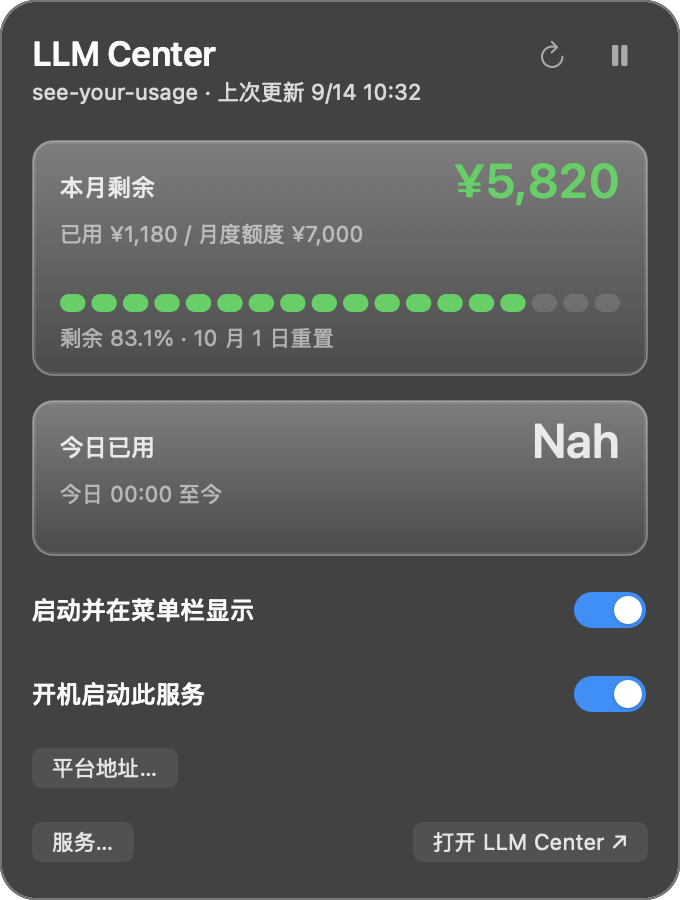
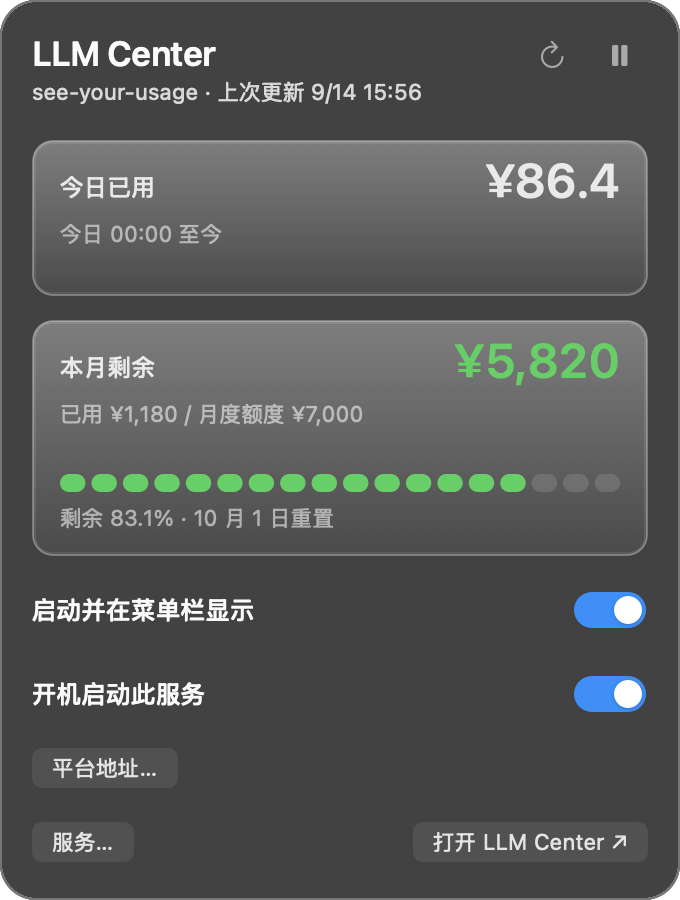
1.0.6

diff --git a/docs/design/product-previews.html b/docs/design/product-previews.html
@@ -1,0 +1,42 @@
+<!doctype html>
+<html lang="zh-CN">
+<meta charset="utf-8">
+<title>see-your-usage product illustrations</title>
+<style>
+*{box-sizing:border-box}body{margin:0;background:#fff;color:#29292c;font-family:-apple-system,BlinkMacSystemFont,"Helvetica Neue",sans-serif;letter-spacing:0}
+.scene{width:760px;height:690px;padding:16px 20px;position:relative;overflow:hidden;background:#fff}
+#codex{height:570px}
+.menubar{height:38px;background:#e9e8ed;border-radius:11px 11px 0 0;display:flex;align-items:center;padding:0 16px;gap:20px;font-size:14px}
+.finder{margin-right:auto;font-size:16px;font-weight:500}.clock{white-space:nowrap}.menubar svg{width:20px;height:20px;stroke-width:1.8}
+.status{height:32px;width:88px;border-radius:6px;background:#d7d6de;display:flex;flex-direction:column;justify-content:center;padding:2px 10px;text-align:right;font-size:13px;line-height:14px;font-weight:600;font-variant-numeric:tabular-nums}
+.green{color:#209c43}.yellow{color:#bd9000}.status.codex{width:126px;flex-direction:row;gap:7px;align-items:center;font-size:10px;padding:0 6px;white-space:nowrap}.mini{display:flex;gap:2px;flex:none}.mini i{height:6px;width:4px;background:#aaa9af;border-radius:3px}.mini i.on{background:#e7b900}
+.popover{position:relative;width:444px;margin:18px 12px 0 auto;padding:22px;background:#eae9ee;border:1px solid #d2d2da;border-radius:18px;box-shadow:0 13px 32px #24212e12}
+.popover::before{position:absolute;content:"";width:17px;height:17px;top:-10px;left:50%;background:#eae9ee;transform:rotate(45deg);border-top:1px solid #d2d2da;border-left:1px solid #d2d2da}
+.header{display:flex;align-items:center;justify-content:space-between}.title{font-size:25px;font-weight:600;line-height:32px}.brand{font-size:14px;color:#77777f;margin-top:6px}.tools{display:flex;gap:17px;color:#7b7b84}.tools svg{width:21px;height:21px;stroke-width:1.7}.updated{font-size:13px;color:#797981;margin:27px 0 18px}
+.metric{background:#f7f7f9;border-radius:13px;padding:18px;margin-top:13px}.row{display:flex;justify-content:space-between;align-items:baseline;gap:10px}.label{font-size:15px;font-weight:500}.amount{font-size:31px;font-weight:600;line-height:36px;font-variant-numeric:tabular-nums;white-space:nowrap}.amount small{font-size:21px;font-weight:500;margin-right:2px}.caption{font-size:13px;color:#787880;margin-top:17px;line-height:19px;white-space:nowrap}.cells{height:11px;display:flex;gap:4px;margin:23px 0 17px}.cells i{flex:1;border-radius:4px;background:#dbdbe1}.cells i.on{background:#209c43}.cells.gold i.on{background:#e7b900}.reset{font-size:12px;color:#787880;display:flex;justify-content:space-between;gap:5px}.settings{border-top:1px solid #d2d2da;margin-top:22px;padding-top:19px;display:flex;align-items:center;justify-content:space-between;font-size:14px}.toggle{width:37px;height:22px;background:#087ff5;border-radius:20px;padding:3px}.toggle::after{content:"";display:block;float:right;background:#fff;width:16px;height:16px;border-radius:50%}.footer{display:flex;justify-content:space-between;margin-top:24px;font-size:13px;color:#797981}.link{color:#0980f8;display:flex;align-items:center;gap:4px}.link svg{width:14px;height:14px}.codex-panel .metric{padding-bottom:21px}.codex-panel .caption{margin-top:12px}.codex-panel .cells{margin-top:25px}.codex-panel .settings{margin-top:26px}.codex-panel{margin-top:18px}.codex-panel .popover::before{left:40%}
+</style>
+<div class="scene" id="llm-center">
+ <div class="menubar"><span class="finder">Finder</span><div class="status"><span class="green">¥5,820</span><span>¥86.4</span></div><i data-lucide="wifi"></i><i data-lucide="battery-full"></i><span class="clock">周一 10:42</span></div>
+ <div class="popover">
+  <div class="header"><div><div class="title">LLM Center</div><div class="brand">see-your-usage</div></div><div class="tools"><i data-lucide="rotate-cw"></i><i data-lucide="pause"></i></div></div>
+  <div class="updated">上次更新 10:42</div>
+  <div class="metric"><div class="row"><span class="label">今日已用</span><span class="amount"><small>¥</small>86.4</span></div><div class="caption">今日 00:00 至今</div></div>
+  <div class="metric"><div class="row"><span class="label">本月剩余</span><span class="amount green"><small>¥</small>5,820</span></div><div class="caption">已用 ¥1,180 / 月度额度 ¥7,000</div><div class="cells" data-total="18" data-filled="15"></div><div class="reset"><span>剩余 83.1%</span><span>10 月 1 日重置</span></div></div>
+  <div class="settings"><span>开机启动</span><span class="toggle"></span></div>
+  <div class="footer"><span>收起</span><span class="link">打开 LLM Center <i data-lucide="arrow-up-right"></i></span></div>
+ </div>
+</div>
+<div class="scene" id="codex">
+ <div class="menubar"><span class="finder">Finder</span><div class="status codex"><span class="mini" data-total="12" data-filled="5"></span><span>Sep 19</span></div><i data-lucide="wifi"></i><i data-lucide="battery-full"></i><span class="clock">周一 10:42</span></div>
+ <div class="popover codex-panel">
+  <div class="header"><div><div class="title">Codex</div><div class="brand">see-your-usage</div></div><div class="tools"><i data-lucide="rotate-cw"></i><i data-lucide="pause"></i></div></div>
+  <div class="updated">上次更新 10:42</div>
+  <div class="metric"><div class="row"><span class="label">本周剩余</span><span class="amount yellow">42<small>%</small></span></div><div class="caption">7 天用量窗口 · 已用 58%</div><div class="cells gold" data-total="18" data-filled="8"></div><div class="reset"><span>Pro</span><span>9 月 19 日重置</span></div></div>
+  <div class="settings"><span>开机启动</span><span class="toggle"></span></div>
+  <div class="footer"><span>收起</span><span class="link">打开 Codex 用量 <i data-lucide="arrow-up-right"></i></span></div>
+ </div>
+</div>
+<script>
+document.querySelectorAll('[data-total]').forEach(el=>{for(let i=0;i<Number(el.dataset.total);i++){const cell=document.createElement('i');if(i<Number(el.dataset.filled))cell.className='on';el.appendChild(cell)}});
+</script>
+</html>

diff --git a/Sources/SeeYourUsage/DashboardViewController.swift b/Sources/SeeYourUsage/DashboardViewController.swift
@@ -323,24 +323,24 @@ final class DashboardViewController: NSViewController {
         sevenDayPanel.isHidden = false
         fiveHourPanel.isQuota = true
         sevenDayPanel.isQuota = true
-        fiveHourPanel.isToday = false
-        sevenDayPanel.isToday = true
-        panelHeights[0].constant = 118
-        panelHeights[1].constant = 78
-        fiveHourPanel.title = "本月剩余"
-        sevenDayPanel.title = "今日已用"
-        fiveHourPanel.quotaAmount = quota.flatMap { $0.isCurrentMonth() ? QuotaFormatting.amount($0.monthlyRemaining) : nil }
-        sevenDayPanel.quotaAmount = quota.flatMap { $0.isCurrentDay() ? QuotaFormatting.today($0.todayUsed) : nil }
-        fiveHourPanel.monthlyRemaining = quota.flatMap { $0.isCurrentMonth() ? $0.monthlyRemaining : nil }
-        fiveHourPanel.quotaPercent = quota.flatMap { $0.isCurrentMonth() ? $0.remainingPercent : nil }
-        fiveHourPanel.quotaCaption = quota.map {
+        fiveHourPanel.isToday = true
+        sevenDayPanel.isToday = false
+        panelHeights[0].constant = 78
+        panelHeights[1].constant = 118
+        fiveHourPanel.title = "今日已用"
+        sevenDayPanel.title = "本月剩余"
+        fiveHourPanel.quotaAmount = quota.flatMap { $0.isCurrentDay() ? QuotaFormatting.today($0.todayUsed) : nil }
+        sevenDayPanel.quotaAmount = quota.flatMap { $0.isCurrentMonth() ? QuotaFormatting.amount($0.monthlyRemaining) : nil }
+        sevenDayPanel.monthlyRemaining = quota.flatMap { $0.isCurrentMonth() ? $0.monthlyRemaining : nil }
+        sevenDayPanel.quotaPercent = quota.flatMap { $0.isCurrentMonth() ? $0.remainingPercent : nil }
+        sevenDayPanel.quotaCaption = quota.map {
             $0.isCurrentMonth() ? "已用 \(QuotaFormatting.amount($0.monthlyUsed)) / 月度额度 \(QuotaFormatting.amount($0.monthlyLimit))" : "数据已跨月，等待刷新本月额度"
         } ?? "登录后显示个人月度额度"
-        fiveHourPanel.quotaFooter = quota.map {
+        sevenDayPanel.quotaFooter = quota.map {
             let reset = $0.nextReset.map { QuotaFormatting.timestamp($0, format: "M 月 d 日") + "重置" } ?? "重置时间未返回"
             return String(format: "剩余 %.1f%% · ", $0.remainingPercent) + reset
         } ?? ""
-        sevenDayPanel.quotaCaption = quota?.isCurrentDay() == false ? "已跨日，等待刷新今日用量" : "今日 00:00 至今"
+        fiveHourPanel.quotaCaption = quota?.isCurrentDay() == false ? "已跨日，等待刷新今日用量" : "今日 00:00 至今"
         for panel in [fiveHourPanel, sevenDayPanel] {
             panel.setAccessibilityElement(true)
             panel.setAccessibilityRole(.staticText)

diff --git a/Sources/SeeYourUsage/StatusItemRenderer.swift b/Sources/SeeYourUsage/StatusItemRenderer.swift
@@ -14,7 +14,7 @@ enum StatusItemRenderer {
         }
         if state.menuPrompt != nil { return NSSize(width: 58, height: 23) }
         let values = [state.quota.map { QuotaFormatting.amount($0.monthlyRemaining, compact: true) } ?? "待更新",
-                      state.quota.map { QuotaFormatting.today($0.todayUsed, compact: true) } ?? "待更新"]
+                      state.quota.map { QuotaFormatting.today($0.todayUsed) } ?? "待更新"]
         let font = NSFont.monospacedDigitSystemFont(ofSize: 10, weight: .semibold)
         let width = values.map { $0.size(withAttributes: [.font: font]).width }.max() ?? 36
         return NSSize(width: ceil(width) + 4, height: 23)
@@ -50,7 +50,7 @@ enum StatusItemRenderer {
         let stale = state.errorMessage != nil || state.isPaused
         let image = NSImage(size: size, flipped: false) { _ in
             let paragraph = NSMutableParagraphStyle()
-            paragraph.alignment = .center
+            paragraph.alignment = .right
             if let prompt = state.menuPrompt {
                 let attributes: [NSAttributedString.Key: Any] = [
                     .font: NSFont.systemFont(ofSize: 10, weight: .medium),
@@ -62,7 +62,7 @@ enum StatusItemRenderer {
                 return true
             }
             let values = [quota.flatMap { $0.isCurrentMonth() ? QuotaFormatting.amount($0.monthlyRemaining, compact: true) : nil },
-                          quota.flatMap { $0.isCurrentDay() ? QuotaFormatting.today($0.todayUsed, compact: true) : nil }]
+                          quota.flatMap { $0.isCurrentDay() ? QuotaFormatting.today($0.todayUsed) : nil }]
             for index in 0..<2 {
                 let color: NSColor = index == 0 && quota != nil && !stale
                     ? UsageColors.accent(forMonthlyRemaining: quota!.monthlyRemaining) : .labelColor

diff --git a/Tests/SeeYourUsageCoreTests/DashboardTests.swift b/Tests/SeeYourUsageCoreTests/DashboardTests.swift
@@ -24,9 +24,9 @@ import Testing
     controller.view.layoutSubtreeIfNeeded()
     let panels = controller.view.subviews.flatMap(\.subviews).compactMap { $0 as? UsagePanelView }
     #expect(panels.count == 2)
-    #expect(panels.first?.quotaAmount == "¥5,820")
-    #expect(panels.last?.quotaAmount == "¥86")
-    #expect(panels.last?.quotaCaption == "今日 00:00 至今")
+    #expect(panels.first?.quotaAmount == "¥86.4")
+    #expect(panels.last?.quotaAmount == "¥5,820")
+    #expect(panels.first?.quotaCaption == "今日 00:00 至今")
     #expect(StatusItemRenderer.size(for: store.state).width < 52)
     func verify(_ view: NSView) {
         for child in view.subviews where !child.isHidden {

diff --git a/Sources/SeeYourUsageCore/LLMCenterService.swift b/Sources/SeeYourUsageCore/LLMCenterService.swift
@@ -131,7 +131,14 @@ public enum QuotaFormatting {
     }
 
     public static func today(_ value: Decimal, compact: Bool = false) -> String {
-        value == 0 ? "Nah" : amount(value, compact: compact)
+        guard value != 0 else { return "Nah" }
+        let formatter = NumberFormatter()
+        formatter.locale = Locale(identifier: "en_US")
+        formatter.numberStyle = .decimal
+        formatter.minimumFractionDigits = 1
+        formatter.maximumFractionDigits = 1
+        formatter.roundingMode = .down
+        return "¥" + (formatter.string(from: NSDecimalNumber(decimal: value)) ?? "—")
     }
 
     public static func timestamp(_ date: Date, format: String) -> String {

diff --git a/Tests/SeeYourUsageCoreTests/LLMCenterTests.swift b/Tests/SeeYourUsageCoreTests/LLMCenterTests.swift
@@ -70,7 +70,7 @@ final class LLMCenterTests: XCTestCase {
         XCTAssertEqual(QuotaFormatting.amount(0), "¥0")
         XCTAssertEqual(QuotaFormatting.today(0), "Nah")
         XCTAssertEqual(QuotaFormatting.today(0, compact: true), "Nah")
-        XCTAssertEqual(QuotaFormatting.today(Decimal(string: "0.9")!), "¥0")
+        XCTAssertEqual(QuotaFormatting.today(Decimal(string: "0.99")!), "¥0.9")
         XCTAssertEqual(QuotaFormatting.amount(Decimal(string: "6044.99")!), "¥6,044")
     }
 }

diff --git a/Tests/SeeYourUsageCoreTests/ProductScreenshotTests.swift b/Tests/SeeYourUsageCoreTests/ProductScreenshotTests.swift
@@ -16,7 +16,7 @@ import Testing
     let iso = ISO8601DateFormatter()
     let payload: [String: Any] = ["code": 200, "data": [
         "hasDept": true, "monthlyLimit": "7000", "monthlyUsed": "1180",
-        "monthlyRemaining": "5820", "todayUsed": "0",
+        "monthlyRemaining": "5820", "todayUsed": "86.4",
         "refreshTime": iso.string(from: now), "nextResetTime": iso.string(from: reset)
     ]]
     let llm = UsageStore(initialState: UsageViewState(provider: .llmCenter))

diff --git a/README.md b/README.md
@@ -5,23 +5,11 @@ The two services are displayed and refreshed independently in one process.
 
 ## Preview
 
-Native AppKit renders with **synthetic example data**, not a live account.
+Product illustrations with example data and simplified controls.
 
-<picture>
-  <source media="(prefers-color-scheme: dark)" srcset="docs/images/menu-bar-dark.png">
-  <img src="docs/images/menu-bar-light.png" alt="Compact Codex bar and reset date beside the two-row LLM Center balance and Nah display">
-</picture>
+<img src="docs/images/codex-illustration.png" width="760" alt="Codex illustration: compact menu bar indicator and weekly remaining quota">
 
-<p>
-  <picture>
-    <source media="(prefers-color-scheme: dark)" srcset="docs/images/codex-dark.png">
-    <img src="docs/images/codex-light.png" width="320" alt="Codex popover with weekly remaining capacity and independent service switches">
-  </picture>
-  <picture>
-    <source media="(prefers-color-scheme: dark)" srcset="docs/images/llm-center-dark.png">
-    <img src="docs/images/llm-center-light.png" width="320" alt="LLM Center popover with monthly balance, Nah for zero daily usage, and independent service switches">
-  </picture>
-</p>
+<img src="docs/images/llm-center-illustration.png" width="760" alt="LLM Center illustration: right-aligned menu bar amounts, with today's spending above monthly remaining in the popover">
 
 ## Menu bar
 
@@ -30,11 +18,14 @@ Native AppKit renders with **synthetic example data**, not a live account.
   use one row; full window names remain in the popover.
 - **LLM Center** uses two unlabeled rows: personal monthly remaining amount above,
   today's spending below. Width follows the text instead of reserving a wide slot.
-- Money uses `¥`, with decimals truncated, never rounded. Actual zero spending today
+- Money uses `¥`: monthly amounts are integers and today's spending has one decimal,
+  truncated rather than rounded. Actual zero spending today
   displays `Nah`. Large menu values use `万`; the popover shows the full integer.
 - LLM Center monthly remaining amounts below 3,000 turn yellow; below 1,000 turn red.
   At 3,000 the color is green; at 1,000 it is yellow. These are the same system colors
   used by Codex. Codex's percentage thresholds are unchanged.
+
+In the expanded LLM Center popover, today's usage is shown above monthly remaining.
 
 ## Independent service settings
 
@@ -100,7 +91,9 @@ layout snapshots using synthetic test fixtures:
 SEE_USAGE_QA_DIR="$PWD/.build/qa" swift test
 ```
 
-To regenerate the public product images from synthetic state:
+The README illustrations are drawn in
+[HTML/CSS](docs/design/product-previews.html). To regenerate the separate native
+UI captures from synthetic state:
 
 ```sh
 SEE_USAGE_PRODUCT_DIR="$PWD/docs/images" swift test --filter renderProductScreenshots
